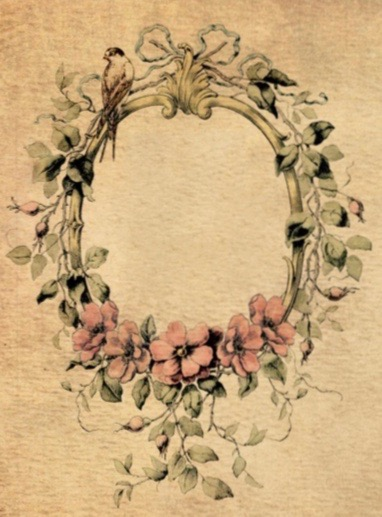
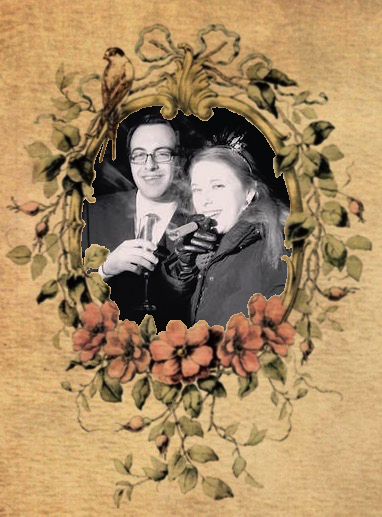
Added frame image incl link

Changed region(s): [[0.2016, 0.1857, 0.7775, 0.6499]]

diff --git a/index.html b/index.html
@@ -1,4 +1,6 @@
-<html><head>
+<html>
+
+<head>
     <meta charset="utf-8">
     <meta http-equiv="X-UA-Compatible" content="chrome=1">
     <!--<meta name="viewport" content="width=640">-->
@@ -12,7 +14,8 @@
     />-->
     <link rel="stylesheet" type="text/css" href="/ac/localnav/3.0/styles/ac-localnav.built.css">
     <link rel="stylesheet" href="http://maxcdn.bootstrapcdn.com/bootstrap/3.3.4/css/bootstrap.min.css">
-    <link href='https://fonts.googleapis.com/css?family=Amiri:400,400italic,700,700italic' rel='stylesheet' type='text/css'>
+    <link href="https://fonts.googleapis.com/css?family=Amiri:400,400italic,700,700italic"
+          rel="stylesheet" type="text/css">
     <!--<script src="https://ajax.googleapis.com/ajax/libs/jquery/1.11.3/jquery.min.js"></script>-->
     <script src="http://maxcdn.bootstrapcdn.com/bootstrap/3.3.4/js/bootstrap.min.js"></script>
     <script type="text/javascript" src="javascripts/modernizr.js"></script>
@@ -24,7 +27,9 @@
         })
     </script>
     <title>Michael &amp; Kendra</title>
-</head><body background="images/card/texture.jpg">
+</head>
+
+<body background="images/card/texture.jpg">
 <!--<a id="forkme_banner" href="https://github.com/mmd1080">View on GitHub</a>-->
 <nav class="hidden-lg hidden-md navbar navbar-default" style="padding-left:1.5em">
     <div>
@@ -116,8 +121,16 @@
         <span class="inner"></span>
     </div>
     <span class="banner-fix"></span>
-    <section id="main_content">
-    </section>
+    <section id="main_content"></section>
+</div>
+<div class="section">
+    <div class="container">
+        <div class="row">
+            <div class="col-md-4 col-md-offset-4">
+                <a href="info.html"><img src="images/card/frame.jpg" class="img-responsive"></a>
+            </div>
+        </div>
+    </div>
 </div>
 <footer style="text-align: center">
       <span class="ribbon-outer">
@@ -131,4 +144,5 @@
     <!--<span class="octocat"></span>-->
 </footer>
 </body>
+
 </html>

diff --git a/media.html b/media.html
@@ -121,7 +121,7 @@
 <footer style="text-align: center">
       <span class="ribbon-outer">
         <span class="ribbon-inner">
-          <p style="font-family: 'Amiri', serif; font-weight: 400;">2015 DiNiCo</p>
+          <p  style="font-family: 'Amiri', serif; font-weight: 400;">2015 DiNiCo</p>
         </span>
         <span class="left-tail"></span>
         <span class="right-tail"></span>
